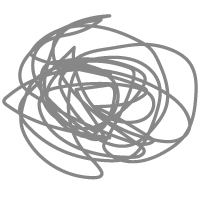
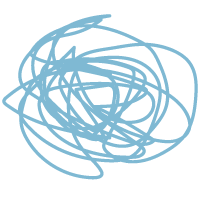
updated-help-section

Changed region(s): [[0.0, 0.06, 0.99, 0.9]]

diff --git a/src/app/home-components/Section3.jsx b/src/app/home-components/Section3.jsx
@@ -9,9 +9,22 @@ const Section3 = () => {
         AOS.init({ once: true });
     }, []);
 
+
+    useEffect(() => {
+        const link = document.createElement('link');
+        link.href =
+            'https://fonts.googleapis.com/css2?family=Source+Serif+4:wght@200&display=swap';
+        link.rel = 'stylesheet';
+        document.head.appendChild(link);
+    }, []);
+
     return (
-        <div className="bg-[radial-gradient(circle_at_center,_#9fd5ff,_#d3ffff)] py-16 px-6">
-            <h1 className="text-black text-3xl md:text-4xl font-bold drop-shadow-xl mb-4 text-center pb-10" >
+
+
+
+        <div className="text-[#2a4c5b] bg-[radial-gradient(circle_at_center,_#9fd5ff,_#d3ffff)] py-16 px-6" style={{ fontFamily: '"Source Serif 4", serif', fontWeight: 200 }}
+        >
+            <h1 className="text-3xl md:text-4xl font-bold drop-shadow-xl mb-4 text-center pb-10" >
                 At Ischys Wellness, we can help with:
             </h1>
 
@@ -20,7 +33,7 @@ const Section3 = () => {
 
                 {/*Section 1 */}
                 <div>
-                    <h1 className="text-black text-3xl md:text-3xl font-bold drop-shadow-xl mb-4 text-center">
+                    <h1 className="text-3xl md:text-3xl font-bold drop-shadow-xl mb-4 text-center">
                         Anxiety
                     </h1>
 
@@ -29,7 +42,7 @@ const Section3 = () => {
                         alt="Anxiety Scribble"
                         width={200}
                         height={200}
-                        className="mx-auto opacity-40"
+                        className="mx-auto"
                     />
                 </div>
 
@@ -37,7 +50,7 @@ const Section3 = () => {
 
                 {/*Section 2 */}
                 <div>
-                    <h1 className="text-black text-3xl md:text-3xl font-bold drop-shadow-xl mb-4 text-center">
+                    <h1 className="text-3xl md:text-3xl font-bold drop-shadow-xl mb-4 text-center">
                         Depression
                     </h1>
 
@@ -46,14 +59,14 @@ const Section3 = () => {
                         alt="Cloud"
                         width={200}
                         height={200}
-                        className="mx-auto opacity-50"
+                        className="mx-auto"
                     />
                 </div>
 
 
                 {/*Section 3 */}
                 <div>
-                    <h1 className="text-black text-3xl md:text-3xl font-bold drop-shadow-xl mb-4 text-center">
+                    <h1 className="text-3xl md:text-3xl font-bold drop-shadow-xl mb-4 text-center">
                         Relationships
                     </h1>
 
@@ -62,13 +75,13 @@ const Section3 = () => {
                         alt="Cloud"
                         width={200}
                         height={200}
-                        className="mx-auto opacity-50"
+                        className="mx-auto"
                     />
                 </div>
 
                 {/*Section 4 */}
                 <div>
-                    <h1 className="text-black text-3xl md:text-3xl font-bold drop-shadow-xl mb-4 text-center">
+                    <h1 className="text-3xl md:text-3xl font-bold drop-shadow-xl mb-4 text-center">
                         Addiction
                     </h1>
 
@@ -77,7 +90,7 @@ const Section3 = () => {
                         alt="Addiction ball & chain"
                         width={200}
                         height={200}
-                        className="mx-auto opacity-50"
+                        className="mx-auto"
                     />
                 </div>
             </div>
